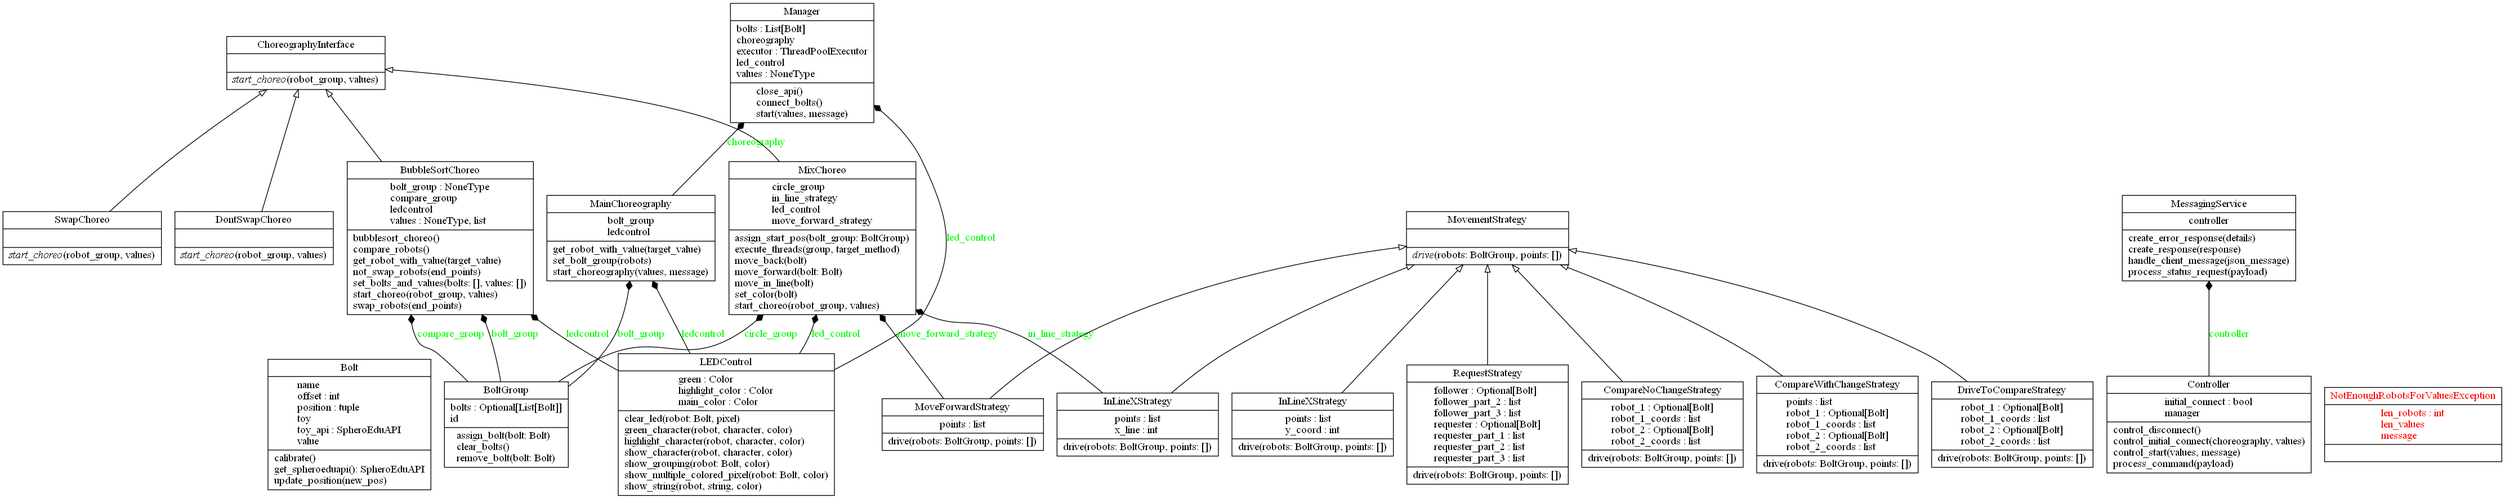
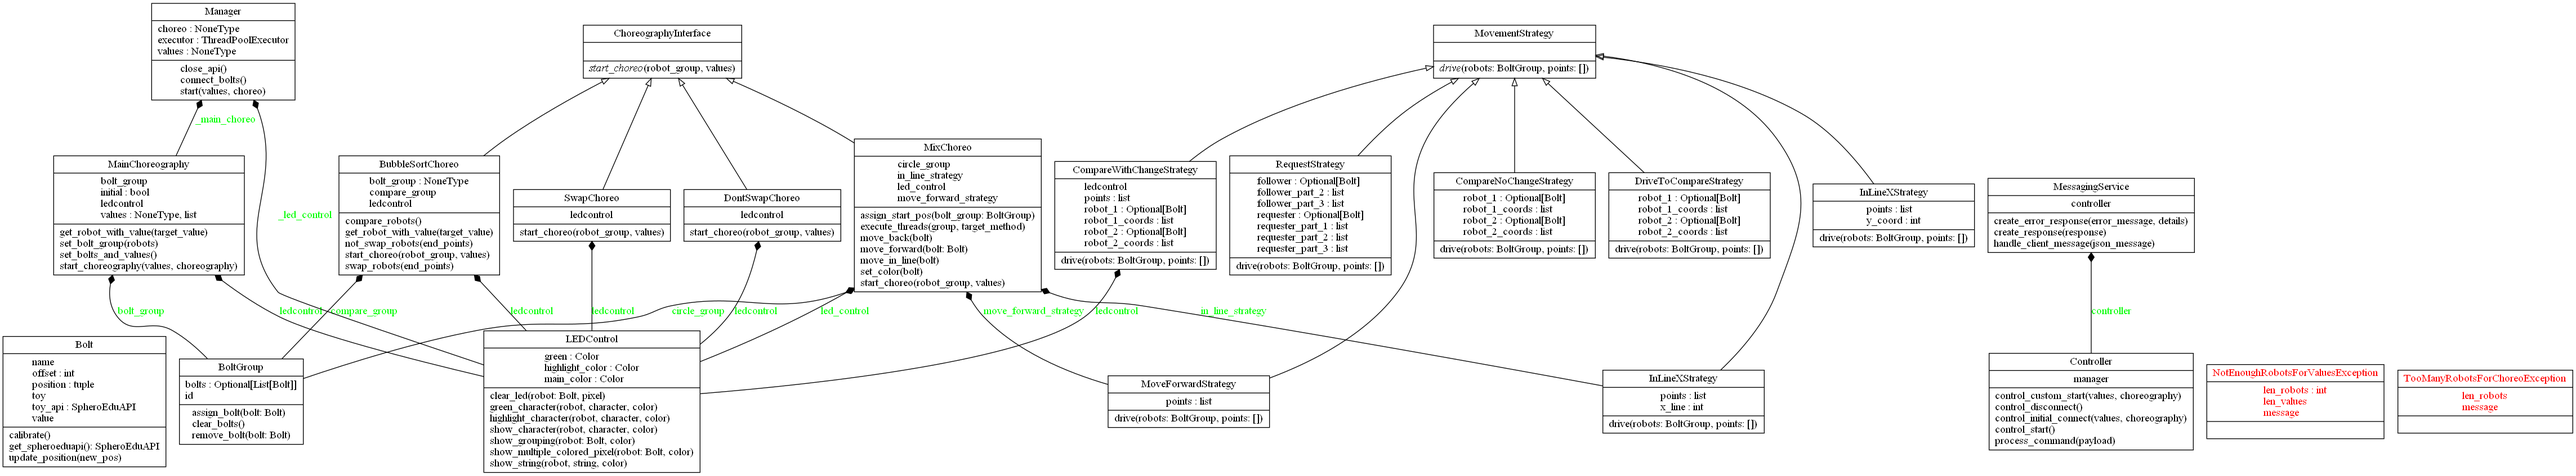
class diagrams, choreos

diff --git a/server/choreographies/MainChoreography.py b/server/choreographies/MainChoreography.py
@@ -24,36 +24,36 @@ class MainChoreography:
         self.bolt_group = BoltGroup()
         self.ledcontrol = LEDControl()
         self.values = []
-        self.initial = True
+        self._initial = True
 
-    def set_bolt_group(self, robots):
+    def _set_bolt_group(self, robots):
         for bolt in robots:
             self.bolt_group.assign_bolt(bolt)
 
     def start_choreography(self, values, choreography):
 
-        if self.initial:
-            self.set_bolts_and_values()
-            self.initial = False
+        if self._initial:
+            self._set_bolts_and_values()
+            self._initial = False
 
         # roboter zu values identifizieren
         robot_group = BoltGroup()
 
         for value in values:
-            robot = self.get_robot_with_value(value)
+            robot = self._get_robot_with_value(value)
             robot_group.assign_bolt(robot)
 
         # bewegungen zu message finden
         _get_choreography_instance(choreography).start_choreo(robot_group, values)
 
-    def get_robot_with_value(self, target_value):
+    def _get_robot_with_value(self, target_value):
 
         for bolt in self.bolt_group:
             if bolt.value == target_value:
                 return bolt
         return None
 
-    def set_bolts_and_values(self):
+    def _set_bolts_and_values(self):
         for bolt in self.bolt_group:
             bolt.calibrate()
             self.ledcontrol.show_character(bolt, bolt.value)

diff --git a/server/movement/movement_strategies/InLineYStrategy.py b/server/movement/movement_strategies/InLineYStrategy.py
@@ -8,7 +8,7 @@ from server.movement.movement_strategies.MovementStrategy import MovementStrateg
 logger = logging.getLogger(__name__)
 
 
-class InLineXStrategy(MovementStrategy):
+class InLineYStrategy(MovementStrategy):
     def __init__(self):
         self.y_coord = 0
         self.points = []

diff --git a/server/choreographies/SwapChoreo.py b/server/choreographies/SwapChoreo.py
@@ -37,7 +37,6 @@ class SwapChoreo(ChoreographyInterface):
         for bolt in robot_group:
             self.ledcontrol.show_character(bolt, bolt.value)
 
-        pass
 
 class TooManyRobotsForChoreoException(Exception):
     def __init__(self, robots):
